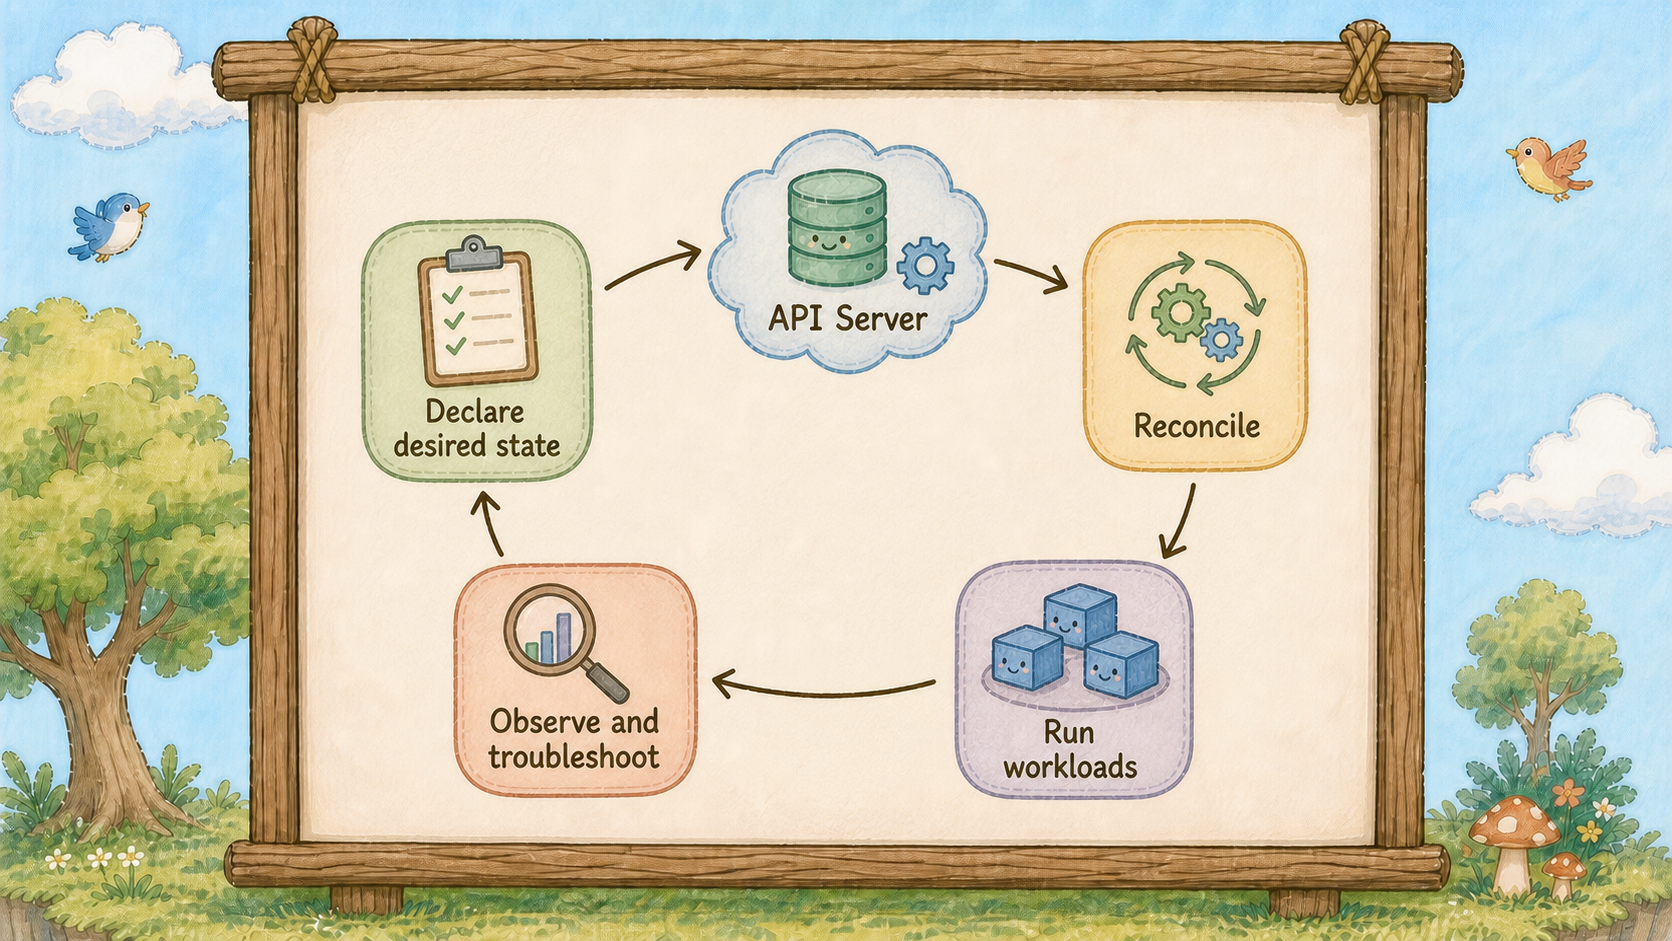
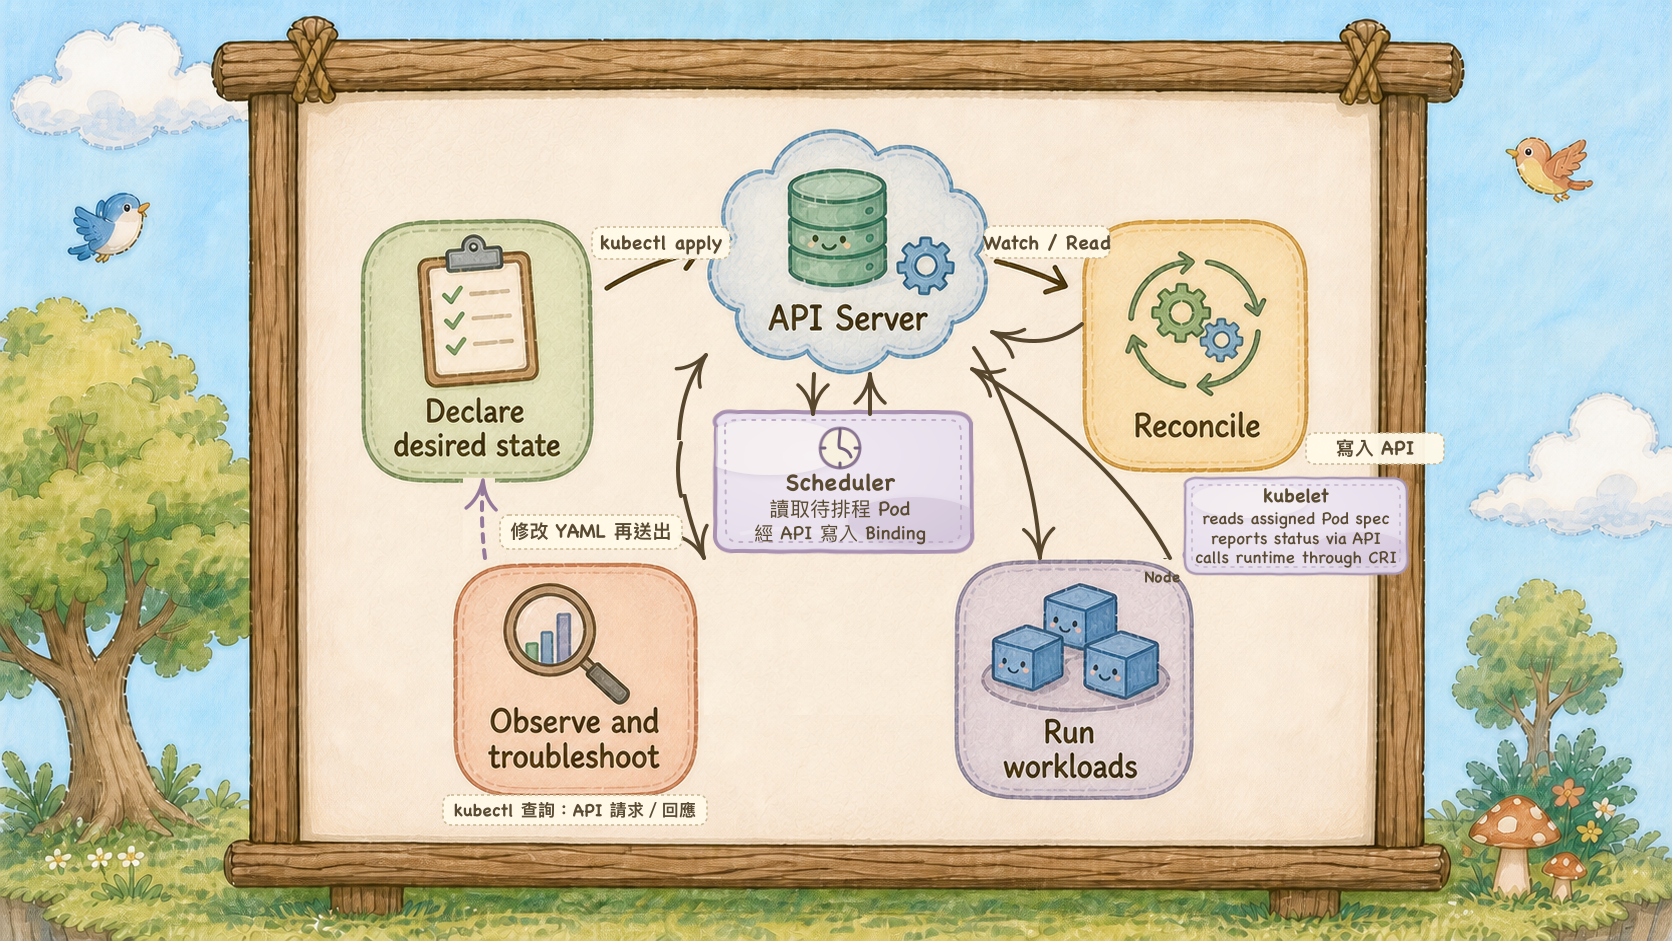
Day29 改圖

diff --git a/day-30.md b/day-30.md
@@ -6,17 +6,14 @@
 我們已經碰過不少 Kubernetes 物件與指令。
 最後一天把既有零件串起來：工作負載如何被宣告、排程、連線、更新、擴縮，以及如何查問題。
 
-![day-30-01](illustrations/day-30-01.png)
+![day-30-01](https://raw.githubusercontent.com/AdaaWu/2026ithome-k8s/main/illustrations/day-30-01.png)
 這張合照象徵三十天課程裡，我們一起認識的 Kubernetes 世界。島上的角色代表不同工作：有人提交設定、有人安排工作、有人維持服務運作，也有人觀察狀態與處理問題。
 
 ## K8s 控制迴圈
 
-![day-30-diagram](illustrations/day-30-diagram.png)
+![day-30-diagram](https://raw.githubusercontent.com/AdaaWu/2026ithome-k8s/main/illustrations/day-30-diagram.png)
 
-說明期望狀態如何經過 API Server、控制器與工作負載，形成持續運作的控制迴圈。
-這張圖用一個簡化循環整理操作方式：先用 YAML 向 API Server 提交期望狀態；API Server 驗證並保存物件後，各控制器透過 API 觀察狀態並建立或調整相關物件，Node 上的 kubelet 再依已排程的 Pod 規格呼叫容器執行階段。接著觀察叢集回報的狀態，若結果不符合預期，就檢查原因並調整設定。圖中的箭頭表示概念流程，不代表單一控制器直接啟動容器；叢集也不一定會完全達到期望狀態。
-
-今天整理三件事：這三十天完成的系統、五個核心技術問題，以及接下來的學習方向。
+使用者透過 kubectl 將 YAML 提交至 API Server。控制器經由 API Server 觀察物件並建立或更新資源；Scheduler 讀取尚未排程的 Pod，選定 Node 後透過 API Server 寫入 binding。Node 上的 kubelet 讀取指派給該 Node 的 Pod 規格，呼叫容器執行階段並回報狀態。使用者可透過 kubectl 查詢狀態，必要時修改 YAML 再提交。
 
 
 ## 第一件：這三十天完成了什麼
